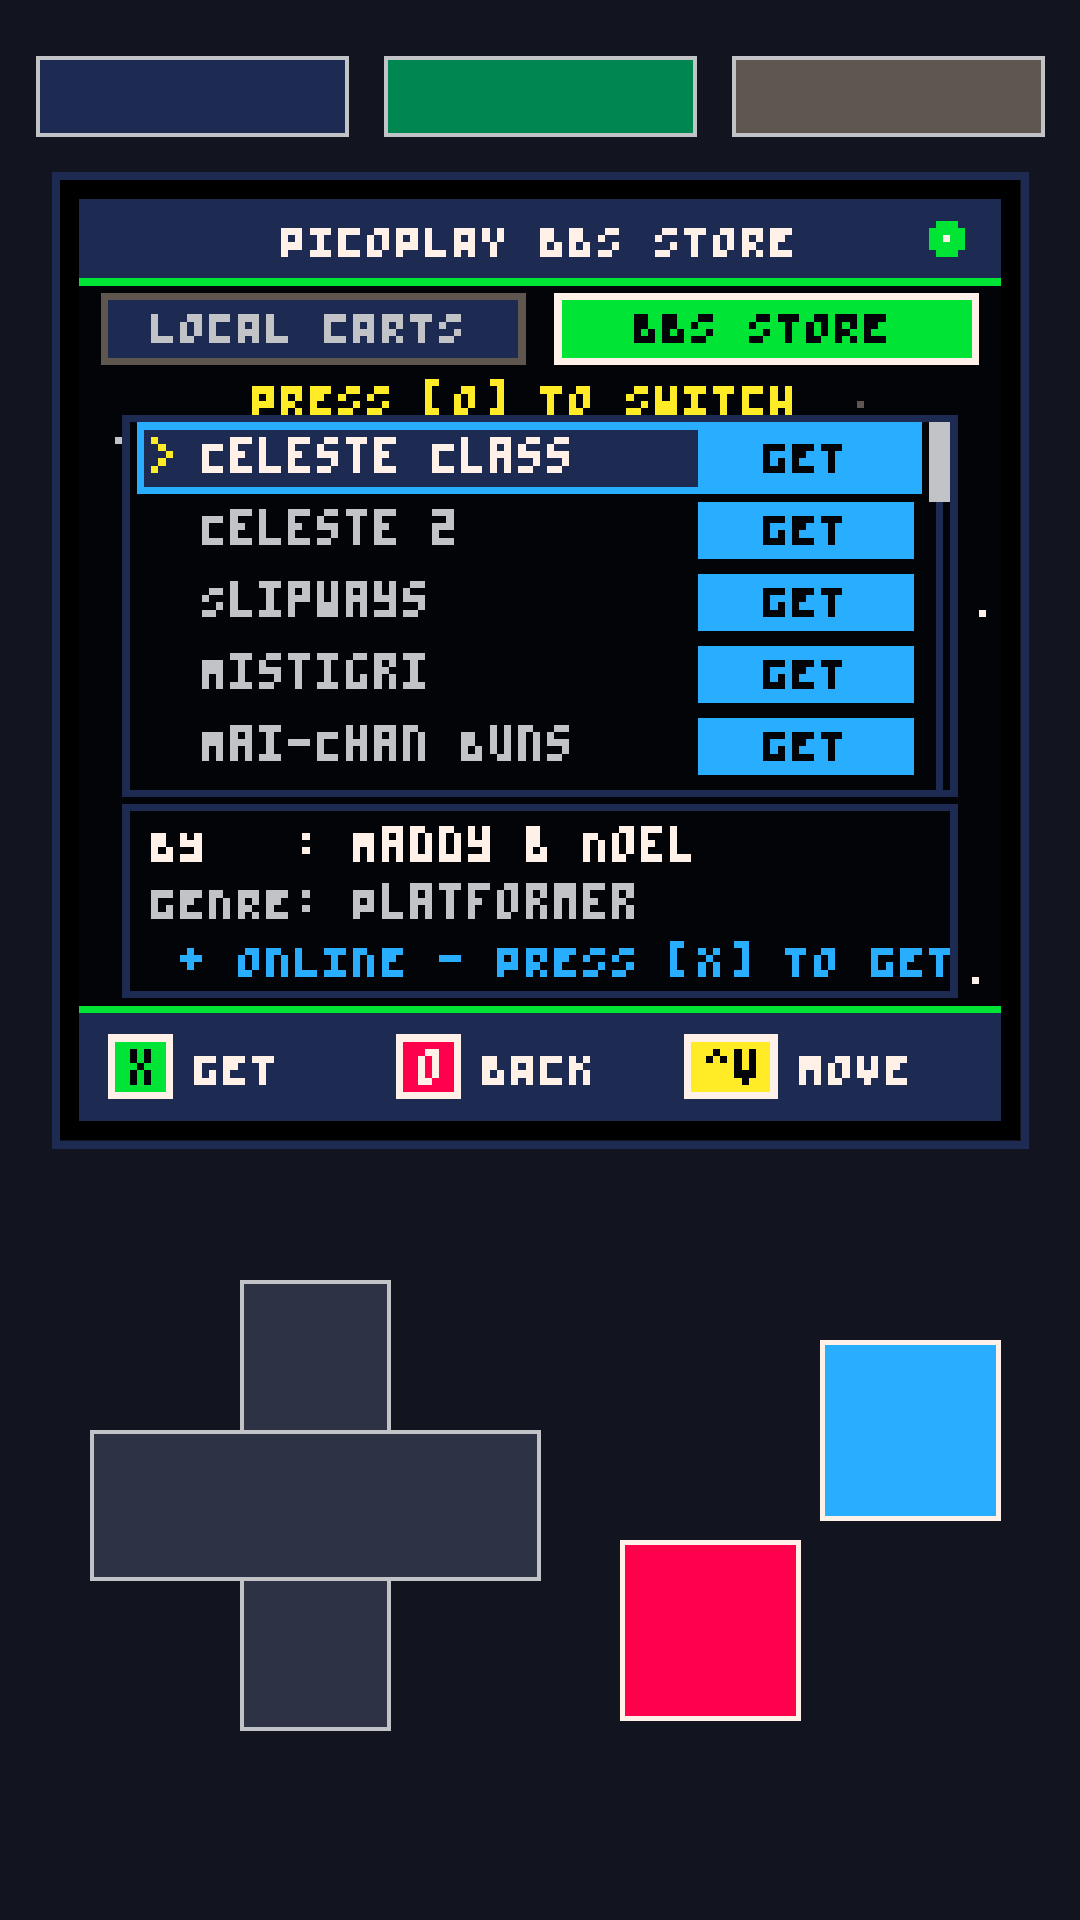
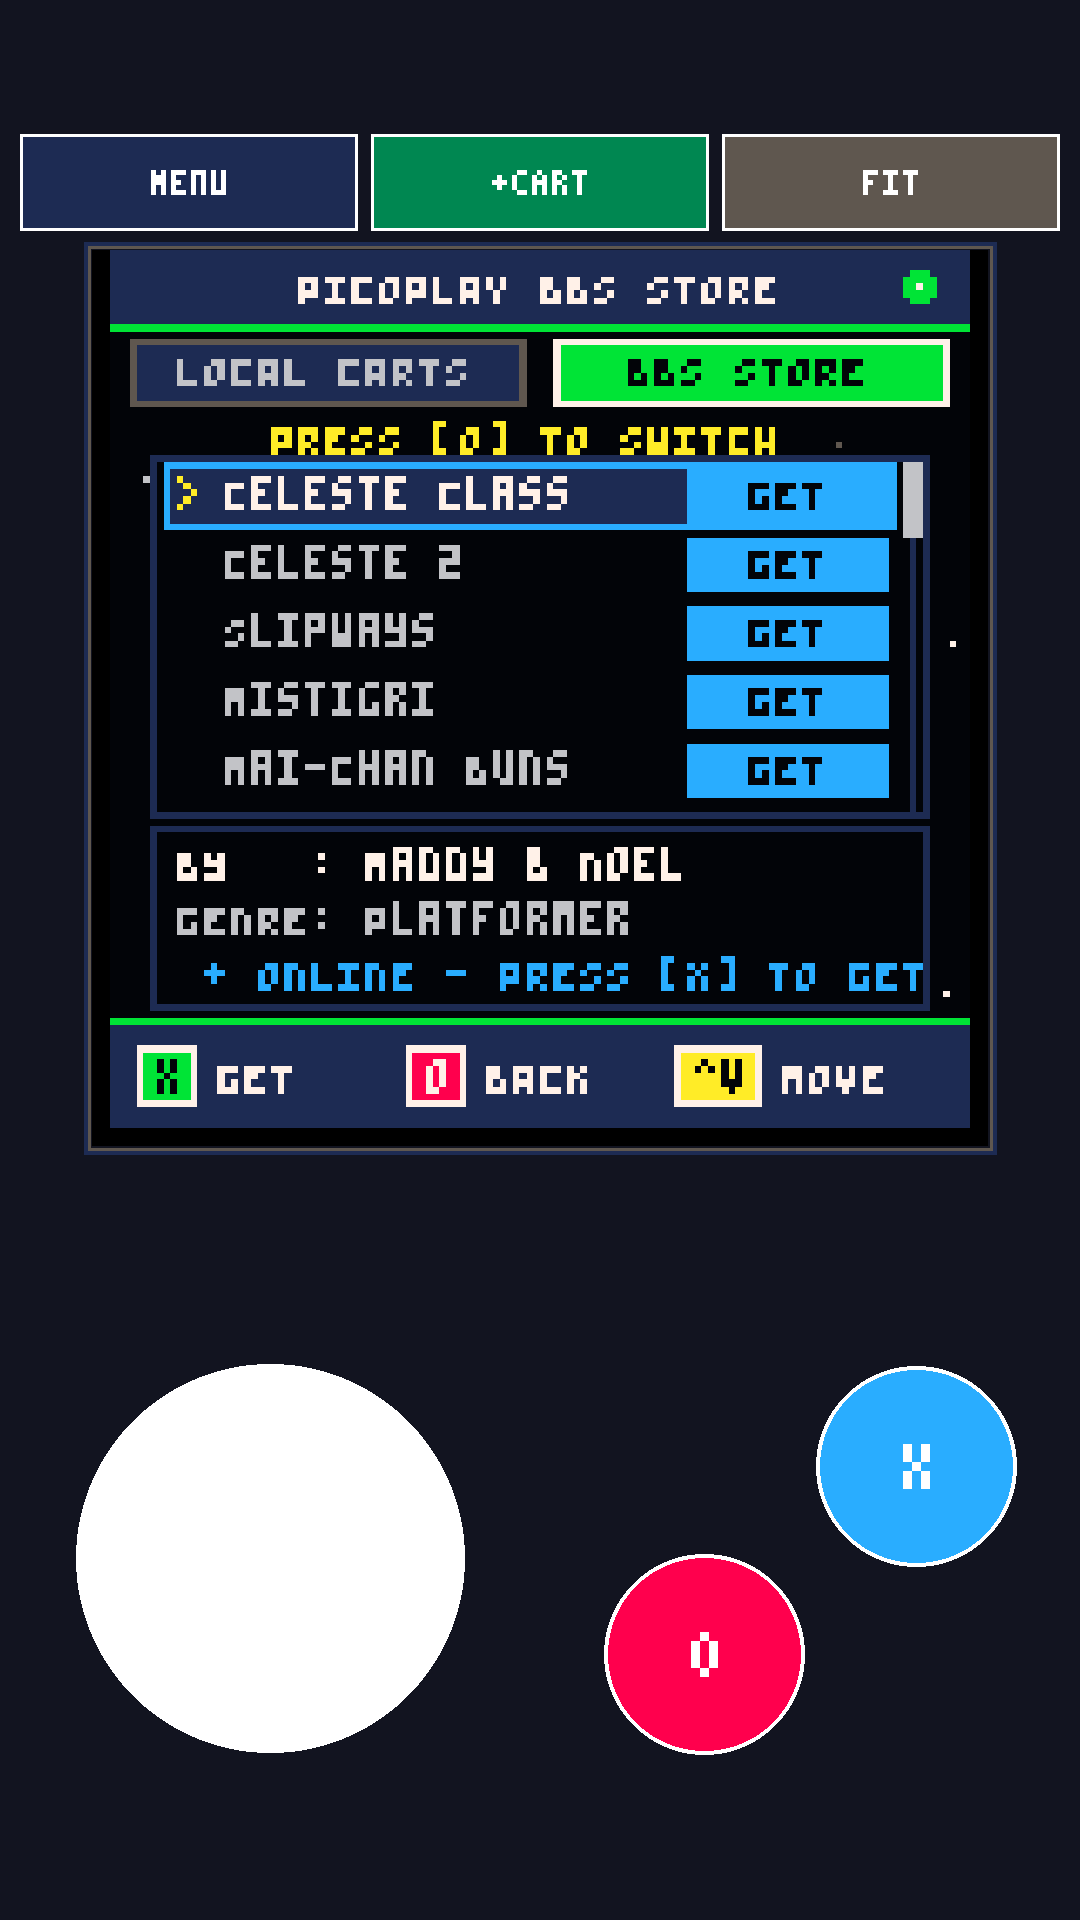
docs: update screenshots and controls to reflect virtual thumb joystick UI

diff --git a/STORE_LISTING.md b/STORE_LISTING.md
@@ -19,7 +19,7 @@ This document contains all ready-to-paste fields, assets, and compliance questio
   KEY FEATURES:
   • Built-In Starter Arcade Library: Jump straight into pre-installed open-source 8-bit classics right out of the box.
   • Import Any .P8 or .P8.PNG Cartridge: Tap [+CART] or [OPEN] to load your own ".p8" source cartridges or ".p8.png" image cartridges directly from your device storage.
-  • Pocket Touch Gamepad: Responsive multi-touch D-Pad and O/X arcade buttons designed for both Portrait and Landscape play.
+  • Pocket Touch Gamepad: Responsive multi-touch Virtual Thumb Joystick and O/X arcade buttons designed for both Portrait and Landscape play.
   • Automatic Bluetooth & USB Controller Support: Connect any Xbox, PlayStation DualShock/DualSense, 8BitDo, or built-in handheld controller—the on-screen touch overlay hides automatically when a physical controller is pressed.
   • Authentic 60 FPS Native C++ Engine: Powered by SDL2 and OpenGL ES 2.0 with integer pixel-perfect scaling and 16KB memory page alignment for Android 15+.
   • 100% Offline & Private: No ads, no tracking, no analytics, and no internet connection required.
@@ -45,7 +45,7 @@ This document contains all ready-to-paste fields, assets, and compliance questio
   FUNCIONALIDADES PRINCIPAIS:
   • Biblioteca Inicial Incluída: Começa a jogar de imediato com os cartuchos clássicos open-source pré-instalados.
   • Importador de Cartuchos (.P8 e .P8.PNG): Toca em [+CART] para importar qualquer cartucho a partir da memória do teu dispositivo.
-  • Comando Tátil Pocket Gamepad: D-Pad multi-toque e botões O/X otimizados para modo Vertical (Portrait) e Horizontal (Landscape).
+  • Comando Tátil Pocket Gamepad: Virtual Thumb Joystick analógico multi-toque e botões O/X otimizados para modo Vertical (Portrait) e Horizontal (Landscape).
   • Suporte Automático para Comandos Bluetooth/USB: Ao premires qualquer botão num comando físico, os botões táteis no ecrã ocultam-se automaticamente.
   • 100% Privado e Sem Publicidade: Sem anúncios, sem rastreadores e totalmente funcional offline.
 

diff --git a/README.md b/README.md
@@ -37,12 +37,12 @@
 ## Controls
 
 ### Pocket Touch Gamepad (Smartphones & Tablets)
-- **D-Pad (Bottom Left)**: 8-way directional input (`Up`, `Down`, `Left`, `Right` + diagonals).
+- **Virtual Thumb Joystick (Bottom Left)**: Floating analog thumbstick with 8-way directional tracking, centered thumb nub, and smart deadzone.
 - **`O` Button (Red, Bottom Right)**: Primary / Jump / Confirm (`Z` / `C`).
 - **`X` Button (Blue, Bottom Right)**: Secondary / Dash / Action (`X` / `V`).
 - **`[MENU]` (Top Left)**: Opens the in-game Pause / Settings / Reset menu.
 - **`[+CART]` (Top Center)**: Opens the native Android file picker to import any `.p8` or `.p8.png` cartridge from your Downloads folder or cloud storage.
-- **`[SCALE]` (Top Right)**: Cycles between Pixel-Perfect Integer Scaling and Fit-to-Bezel mode.
+- **`[SCALE]` (Top Right)**: Cycles between Handheld Fit (`FIT`), Pixel-Perfect Integer (`1:1`), and Fill Width (`MAX`) modes.
 
 ### Physical Bluetooth / USB Controllers (DualShock 4, DualSense, Xbox, 8BitDo, Retroid/Odin)
 - **Auto-Hide Overlay**: Pressing any button on a physical controller automatically hides the on-screen touch gamepad for an unobstructed display. Touching the screen brings the overlay back immediately.
